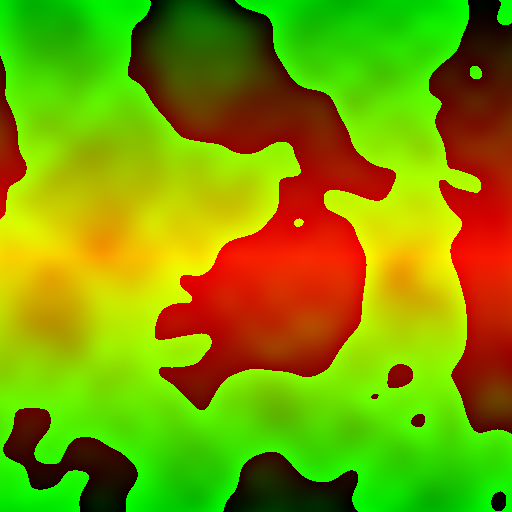
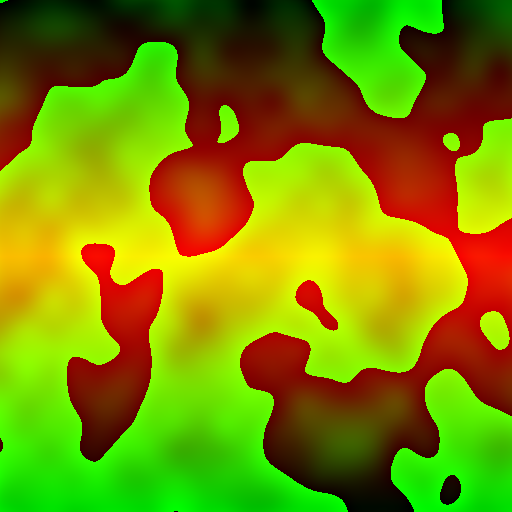
Structures

diff --git a/roguelike/Level.cpp b/roguelike/Level.cpp
@@ -2,6 +2,8 @@
 #include "Tile.h"
 #include "Item.h"
 #include "GameObjects.h"
+#include "Structure.h"
+#include "Character.h"
 
 #include <fstream>
 #include <cstdlib>
@@ -17,6 +19,7 @@ Level::~Level() {
 		delete _actors[i];
 	}
 	delete _fovmap;
+	Character::get_chbuff().clear();
 	Actor::set_buffer(nullptr);
 	Actor::set_map(nullptr);
 }
@@ -42,19 +45,16 @@ void Level::generate_level(int size, LEVEL_TYPE type) {
 	case GALAXY:
 		generate_space();
 		generate_space_obj(Random::one_to_sixteen, GALAXY);
-
 		break;
 
 	case STAR_SECTOR:
 		generate_space();
 		generate_space_obj(Random::one_to_thirty_two, STAR_SECTOR);
-
 		break;
 
 	case SOLAR_SYSTEM:
 		generate_space();
 		generate_space_obj(Random::one_to_thirty_two, SOLAR_SYSTEM);
-		
 		break;
 	
 	case GRASSLAND:
@@ -65,7 +65,6 @@ void Level::generate_level(int size, LEVEL_TYPE type) {
 			Tile::DIRT);
 		generate_trees(Random::one_to_one_twenty_eight);
 		generate_flora(Random::one_to_one_twenty_eight);
-		
 		break;
 	
 	case HILLS:
@@ -76,7 +75,6 @@ void Level::generate_level(int size, LEVEL_TYPE type) {
 			Tile::DIRT);
 		generate_trees(Random::one_to_sixteen);
 		generate_flora(Random::one_to_sixty_four);
-
 		break;
 	
 	case FOREST:
@@ -85,9 +83,9 @@ void Level::generate_level(int size, LEVEL_TYPE type) {
 			Tile::GRASS,
 			Tile::DIRT_WALL,
 			Tile::DIRT);
+		generate_structures(Random::randc(0, 250));
 		generate_trees(Random::one_to_eight);
 		generate_flora(Random::one_to_two_fifty_six);
-
 		break;
 	
 	case DESERT:
@@ -97,7 +95,6 @@ void Level::generate_level(int size, LEVEL_TYPE type) {
 			Tile::SANDSTONE,
 			Tile::SAND);
 		generate_flora(Random::one_to_two_fifty_six, Level::DESERT_FLORA);
-
 		break;
 
 	case SNOWY_TAIGA:
@@ -109,6 +106,7 @@ void Level::generate_level(int size, LEVEL_TYPE type) {
 		generate_trees(Random::one_to_eight, Level::COLD_FLORA);
 		generate_flora(Random::one_to_two_fifty_six, Level::COLD_FLORA);
 		break;
+	
 	case OCEAN:
 		generate_terrain(0.01f, 1.0f, 0.0f, 0.0f,
 			Tile::WATER,
@@ -320,6 +318,26 @@ void Level::generate_flora(std::uniform_int_distribution<int> r, Level::GENERATI
 					}
 				}
 			}
+	}
+}
+
+void Level::generate_structures(int num) {
+	for (int i = 0; i < num; i++) {
+		
+		int rnd = 0;
+		while (true) {
+			rnd = Random::randc(0, _actors.size());
+			if (_actors[rnd]->is_impassable()) {
+				continue;
+			}
+			if (_actors[rnd]->get_screen_pos()[0] > _width - 9 || _actors[rnd]->get_screen_pos()[1] > _height - 9) {
+				continue;
+			}
+			break;
+		}
+
+		new Structure(_actors[rnd]->get_screen_pos()[0], _actors[rnd]->get_screen_pos()[1], 9, 9, Structure::CABIN, Tile::WOOD, Tile::DIRT);
+		std::cout << "Structure generated at: " << _actors[rnd]->get_screen_pos()[0] << " " << _actors[rnd]->get_screen_pos()[1] << std::endl;
 	}
 }
 

diff --git a/roguelike/Structure.cpp b/roguelike/Structure.cpp
@@ -1,0 +1,42 @@
+#include "Structure.h"
+#include "Level.h"
+#include "Tile.h"
+
+Structure::Structure(int x, int y, int w, int h, S_TYPE type, Tile::TILE_TYPE wall, Tile::TILE_TYPE floor) {
+	std::string s;
+	switch (type) {
+	case CABIN:
+		s =
+			"#########\n"
+			"#.......#\n"
+			"#.......#\n"
+			"#.......#\n"
+			"........#\n"
+			"#.......#\n"
+			"#.......#\n"
+			"#.......#\n"
+			"#########\n";
+		w = 9;
+		h = 9;
+		break;
+	}
+	int xs = 0;
+	int ys = 0;
+	for (int i = 0; i < s.length(); i++) {
+		if (s[i] == '\n') {
+			ys++;
+			xs = 0;
+		}
+		else {
+			if (s[i] == '#') {
+				new Tile(x + xs, y + ys, 0, wall);
+			}
+			if (s[i] == '.') {
+				new Tile(x + xs, y + ys, 0, floor);
+			}
+			xs++;
+		}
+	}
+	Structure::~Structure();
+}
+Structure::~Structure(){}

diff --git a/roguelike/AI.cpp b/roguelike/AI.cpp
@@ -30,7 +30,6 @@ void AI::simple_follow(Character* c) {
 	TCODPath path = TCODPath(Level::get_fov_map(), 1.0f);
 	path.compute(sposx, sposy, _player->get_world_pos()[0], _player->get_world_pos()[1]);
 	
-	std::cout << path.size() << std::endl;
 	if (path.size() == 0) {
 		return;
 	}
@@ -65,5 +64,4 @@ void AI::simple_follow(Character* c) {
 	else if (x > sposx && y > sposy) {
 		c->move("bottomright");
 	}
-	std::cout << c->get_name() << " moved" << std::endl;
 }

diff --git a/roguelike/Tile.cpp b/roguelike/Tile.cpp
@@ -216,6 +216,16 @@ Tile::Tile(int x, int y, int z, TILE_TYPE type, TCODColor color) : Actor(x, y, z
 		_impassable = true;
 		_transparent = false;
 		break;
+	
+	case WOOD:
+		_c = '#';
+		_fcolor = TCODColor::lightSepia;
+		_bcolor = TCODColor::black;
+
+		_name = "Wood Wall";
+		_impassable = true;
+		_transparent = false;
+		break;
 	}
 
 

diff --git a/roguelike/World.cpp b/roguelike/World.cpp
@@ -28,6 +28,7 @@ void World::generate_world() {
 	_terrain_n.SetNoiseType(FastNoise::CubicFractal);
 	_biome_n.SetSeed(Random::random(Random::generator));
 	_biome_n.SetNoiseType(FastNoise::Cellular);
+	_biome_n.SetFrequency(0.03f);
 	
 	generate_temperature();
 	generate_terrain();

diff --git a/roguelike/Structure.h b/roguelike/Structure.h
@@ -1,0 +1,13 @@
+#pragma once
+#include "Tile.h"
+
+class Structure {
+public:
+	enum S_TYPE {
+		CABIN,
+	};
+	
+	Structure(int x, int y, int w, int h, S_TYPE type, Tile::TILE_TYPE wall, Tile::TILE_TYPE floor);
+	~Structure();
+};
+

diff --git a/roguelike/Level.h b/roguelike/Level.h
@@ -57,6 +57,8 @@ public:
 
 	void generate_space_obj(std::uniform_int_distribution<int> r, LEVEL_TYPE type);
 
+	void generate_structures(int num);
+
 	void update();
 
 	void update_tile(int x, int y, int z);

diff --git a/roguelike/Tile.h b/roguelike/Tile.h
@@ -24,7 +24,8 @@ public:
 		STAR_DUST,
 		SNOW,
 		ICE,
-		SNOWY_TREE
+		SNOWY_TREE,
+		WOOD,
 	};
 
 	Tile();
